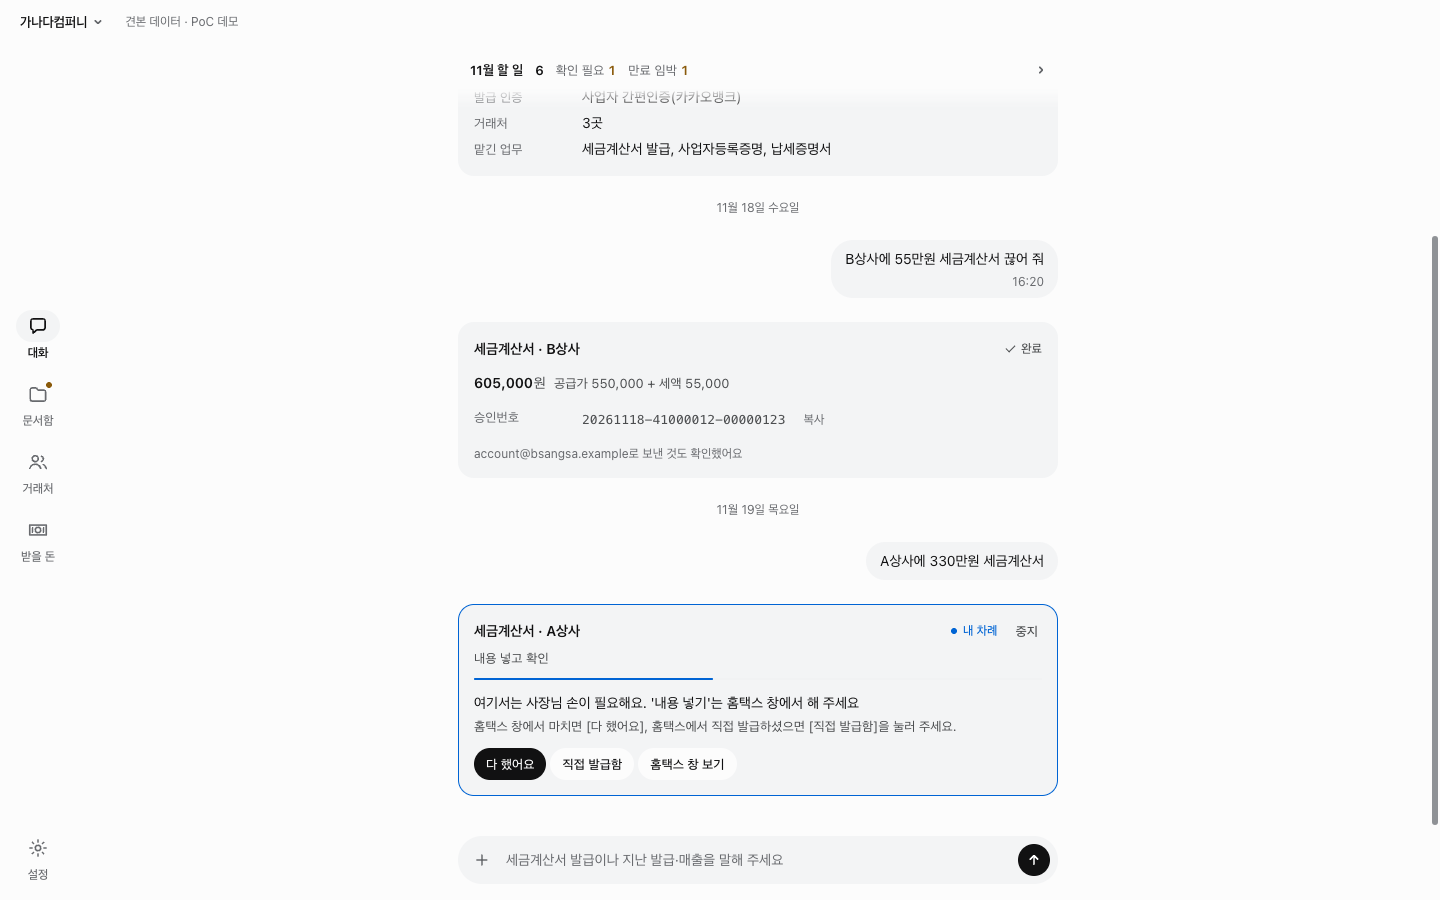
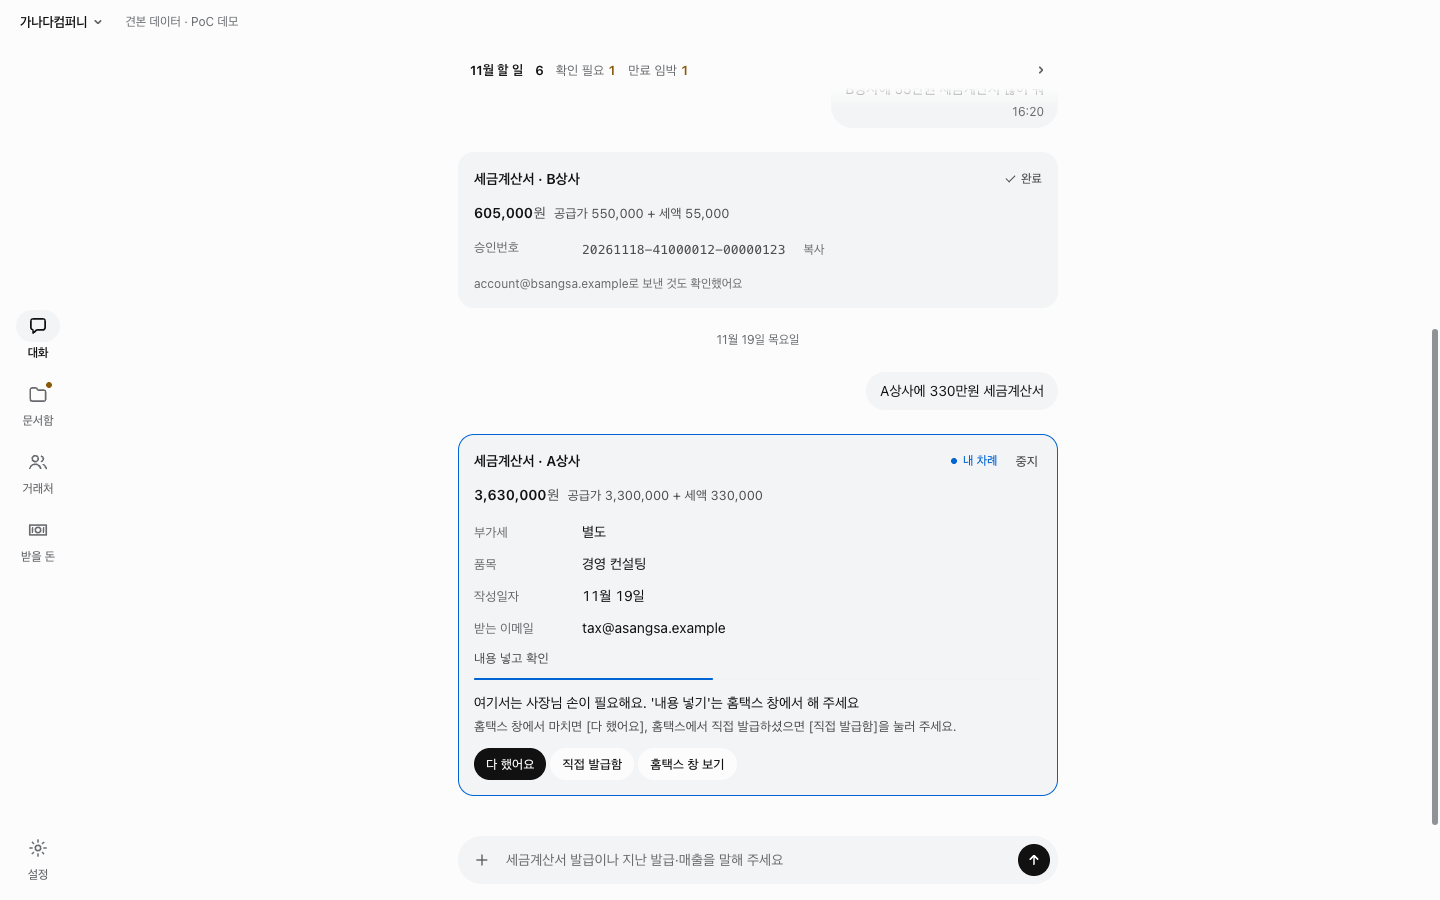
발급 카드는 언제나 같은 틀: 준비 중·사람 차례·확인 필요·멈춤도 금액·값 목록 위에 지금 하는 일과 진행, 바뀐 앞 카드는 접힌 요약 한 줄
- 정정·대기 안내는 안내 면(정보), 미리보기 정정 장면(40~42), 정정·대기 문구는 shell-runs에서 내보냄
- 0클릭 준비와 맞춰 엔진 닫는 문장에서 [홈택스에서 준비]를 누르라는 말을 뺌, '부가세 포함으로' 조사
- chat-eval: autoPrepare 사례(issue-correct-preparing), 조회 요약 문장 검사 정규식

diff --git a/poc/apps/desktop/static/shell/shell-views.js b/poc/apps/desktop/static/shell/shell-views.js
@@ -310,6 +310,7 @@ const certLine = (run) => h('div', { class: 'sx-meta', 'data-cert-inputs': '' },
 /** [홈택스 창 보기]: 사람이 할 일이 홈택스 창에 있을 때(로그인·서명·사람 차례). 실행 Chrome 창을 앞으로 올리기만 한다. 다른 주요 단추가 없으면 이것이 주요 단추다. */
 const showBrowserBtn = (run, act, primary = false) => btn('홈택스 창 보기', () => act.showBrowser(run.id), primary ? 'sx-btn-primary' : '', { 'data-act': 'show-browser' });
 
+const INFO_NOTICE = /바로 준비해요|이어서 준비해요/;
 /** 발급 뒤 확인 중 한 줄(main shell-runs verifyNow와 같은 말). */
 const verifyLine = (n) => (n && n > 1 ? `홈택스 반영이 늦어 발급 목록을 다시 보고 있어요(${n}번째)` : '홈택스 발급 목록에서 방금 건을 찾고 있어요. 1~2분 걸릴 수 있어요');
 /** 지금 단계 한 줄: 지금 하는 일 문장(main이 단계 메모로 준다)이 있으면 그 문장, 없으면 단계 이름. 할 일 줄이 같은 말을 하면 이름만(withNote false). */
@@ -339,10 +340,35 @@ function fold(card, run, step, stop = null) {
   card.classList.toggle('is-attention', run.status === 'attention');
   card.replaceChildren(
     h('div', { class: 'sx-card-hd sx-run-hd' }, h('div', { class: 'sx-card-title' }, `${run.batch ? `${run.batch.index + 1}. ` : ''}${runTitle(run)}`), chip(shownStatus(run)), stop),
-    // 지금 하는 일 한 문장(대표 피드백 4번: 각 스텝이 어떤 상태인지). 금액·값은 패널에 있다.
-    h('p', { class: 'sx-card-now', 'aria-live': 'polite' }, step),
-    run.status === 'attention' ? null : progressBar(run),
+    // 발급 카드는 언제나 같은 틀이다(대표 지적 2026-11-19 "카드가 매번 제각각"): 작성 카드와 같은 금액 줄·값 목록을 위에, 그 아래 지금 하는 일과 진행.
+    ...runFacts(run),
+    // 지금 하는 일 한 문장(대표 피드백 4번: 각 스텝이 어떤 상태인지)
+    step ? h('p', { class: 'sx-card-now', 'aria-live': 'polite' }, step) : null,
+    run.status === 'attention' || run.status === 'stopped' ? null : progressBar(run),
   );
+}
+
+/**
+ * 작성 카드와 같은 틀의 값(읽기 전용): 금액 줄(합계 · 공급가 + 세액) + 부가세 · 품목 · 작성일자 · 받는 이메일. 민원증명은 용도·제출처 줄.
+ * 준비 중·사람 차례·확인 필요·멈춤 카드가 모두 이 틀을 쓴다. 승인 대기 카드만 ADR-021 결정 7로 접힌다(값은 main 승인 카드에만).
+ */
+function runFacts(run) {
+  if (run.cert) return [certLine(run)];
+  return [
+    amount(run.total, run.supply, run.tax, null, true),
+    h(
+      'dl',
+      { class: 'sx-kv sx-draft sx-facts', 'data-run-facts': '' },
+      h('dt', {}, '부가세'),
+      h('dd', {}, run.vat === 'separate' ? '별도' : '포함'),
+      h('dt', {}, '품목'),
+      h('dd', {}, run.item || '—'),
+      h('dt', {}, '작성일자'),
+      h('dd', {}, writeDateText(run.writeDate)),
+      h('dt', {}, '받는 이메일'),
+      h('dd', {}, run.email?.value || '없음 · 메일은 보내지 않아요'),
+    ),
+  ];
 }
 const stopBtn = (run, act) => btn('중지', () => act.stop(run.id), 'sx-btn-quiet', { 'data-act': 'stop' });
 
@@ -544,7 +570,13 @@ export function taskCard(run, act) {
       h('div', { class: 'sx-actions' }, r.noFile ? null : btn('PDF 열기', () => act.openRunDoc(run), 'sx-btn-primary', { 'data-act': 'result-open' }), btn(run.cert ? '한 번 더 떼기' : '지난번과 같게', () => act.again(run), '', { 'data-act': 'again' }), toggle),
       where,
     );
+  } else if (st === 'stopped' && run.replaced) {
+    // 고친 내용으로 새로 준비해서 멈춘 앞 건(정정): 조용히 접힌 요약 한 줄. 새 카드가 바로 아래에 있다.
+    card.replaceChildren(h('div', { class: 'sx-card-hd sx-run-hd', 'data-replaced': '' }, h('div', { class: 'sx-card-title' }, runTitle(run)), h('span', { class: 'sx-meta sx-folded-line' }, `${won(run.total)} · 고친 카드로 바꿨어요`), chip(shownStatus(run))));
+    card.classList.add('is-folded', 'is-replaced');
+    return card;
   } else if (st === 'stopped') {
+    fold(card, run, null);
     card.append(line(run.stoppedNote || '중지했어요.', true));
     // 브라우저가 닫혀 멈춘 제출 전 실행: 같은 값으로 바로 다시 시작
     if (run.browserClosed) card.append(h('div', { class: 'sx-actions' }, btn('다시 시작', () => act.restart(run.id), 'sx-btn-primary', { 'data-act': 'restart' })));
@@ -583,7 +615,8 @@ export function taskCard(run, act) {
     );
   }
   // 포털 안내 문구·금고 알림(텍스트 노드로만).
-  if (run.notices?.length) card.append(noteGroup(run.notices));
+  // 정정·대기 안내(shell-runs REPLACING_NOTE·QUEUED_NOTE)는 할 일이 아니라 알림이라 안내 면(정보)이다. 나머지 포털 문구·금고 알림은 주의 면.
+  if (run.notices?.length) card.append(noteGroup(run.notices, !run.notices.every((t) => INFO_NOTICE.test(t))));
   // 금고가 Chrome 확장을 보고 멈춘 실행이 발급 없이 끝났으면 [다시 시도]: 같은 요청을 입력창에 채우기만 한다(보내기·준비는 사용자가, [지난번과 같게]와 같은 길).
   if (run.retry && !run.result && !run.inDoubt && (st === 'stopped' || st === 'attention')) {
     card.append(h('div', { class: 'sx-actions' }, btn('다시 시도', () => act.again(run), 'sx-btn-primary', { 'data-act': 'retry' })));

diff --git a/poc/packages/engine/src/chat-agent.ts b/poc/packages/engine/src/chat-agent.ts
@@ -61,7 +61,7 @@ export const CHAT_AGENT_ASK_TEXT: Record<AgentAsk, string> = {
 };
 /** 엔진이 도구 결과로 턴을 닫을 때의 고정 문장(마지막 결과 status별). 없으면 CHAT_AGENT_NUMBER_TEXT. */
 export const CHAT_AGENT_DONE_TEXT: Partial<Record<ToolStatus, string>> = {
-  card_shown: '세금계산서 카드를 만들었어요. 맞으면 [홈택스에서 준비]를 눌러 주세요.',
+  card_shown: '세금계산서 카드를 만들었어요. 진행은 카드에서 보여 드려요.',
   card_updated: '카드를 고쳤어요. 바뀐 값을 한 번 봐 주세요.',
   discarded: '카드를 취소했어요. 홈택스에는 아무것도 보내지 않았어요.',
   ok: '찾은 기록을 아래 표로 보여 드렸어요.',
@@ -515,7 +515,7 @@ export class ChatAgent {
         const amt = amtOf(a) ?? line2;
         // 부가세를 말하지 않았으면(null) 앱이 별도로 둔다: 문장 끝에 한 번 알린다(vatNote)
         const vat = vatWord(a.vat);
-        return `${who ? `${who} 앞으로 ` : ''}${when ? `작성일 ${when}, ` : ''}${amt ? `${amt}${vat ? ', ' : ' '}` : ''}${vat ? `${vat}로 ` : ''}세금계산서 카드를 만들었어요.`;
+        return `${who ? `${who} 앞으로 ` : ''}${when ? `작성일 ${when}, ` : ''}${amt ? `${amt}${vat ? ', ' : ' '}` : ''}${vat ? `${vat}${vat.endsWith('포함') ? '으로' : '로'} ` : ''}세금계산서 카드를 만들었어요.`;
       }
       if (r.o.status === 'card_updated') {
         const parts = [amtOf(a) ? `금액 ${amtOf(a)}` : line2 ? `금액 ${line2}` : null, vatWord(a.vat), r.call?.tool === 'draft_edit' && r.call.item ? '품목' : null, when ? `작성일 ${when}` : null].filter((x) => x);
@@ -527,7 +527,7 @@ export class ChatAgent {
     const lines = round.map(line);
     const vatNote = round.some((r) => r.o.status === 'card_shown' && !vatWord(r.args.vat)) ? ' 부가세는 별도로 계산했어요. 포함이면 말씀해 주세요.' : '';
     const cards = round.filter((r) => r.o.status === 'card_shown').length;
-    const tail = round.at(-1)!.o.status === 'card_shown' ? ' 맞으면 [홈택스에서 준비]를 눌러 주세요.' : round.at(-1)!.o.status === 'card_updated' ? ' 바뀐 값을 한 번 봐 주세요.' : '';
+    const tail = round.at(-1)!.o.status === 'card_shown' ? ' 진행은 카드에서 보여 드려요.' : round.at(-1)!.o.status === 'card_updated' ? ' 바뀐 값을 한 번 봐 주세요.' : '';
     const text =
       round.every((r) => r.o.status === 'discarded') ? CHAT_AGENT_DONE_TEXT.discarded!
       : lines.every((l) => l) && lines.length <= 2 ? `${lines.join(' ')}${vatNote || tail}`

diff --git a/poc/tests/chat-eval/cases.ts b/poc/tests/chat-eval/cases.ts
@@ -33,6 +33,7 @@ export const SEED: { cps: SeedCp[]; issued: SeedRow[]; receivables: SeedRow[]; p
     { name: '스마일카페', item: null },
     { name: '대한테크', item: '웹사이트 유지보수' },
     { name: '김앤리컨설팅', item: '컨설팅' },
+    { name: '일호유통', item: '사무용품' },
   ],
   issued: [
     { cp: '한빛상사', date: '2026-11-03', total: 1_100_000, approvalNo: '20261103-41000000-00000001' },
@@ -109,12 +110,21 @@ export interface Case {
   /** 무엇을 보는가(사람이 읽을 설명) */
   why: string;
   turns: Array<{ say: string; expect: TurnExpect }>;
+  /** 앱처럼 품목이 있는 새 카드를 바로 준비 중으로 둔다(열린 카드 목록에서 빠짐, 정정은 invoice_draft 다시). */
+  autoPrepare?: boolean;
 }
 
 const ISSUE_WORDS = ['발급했', '발급 완료했', '발급을 완료', '발급됐', '발급되었', '전송했'];
 
 export const CASES: Case[] = [
   // ── 발급 카드 만들기 ──
+  // 대표 실사용(2026-11-19): 0클릭 준비 중에 금액·부가세를 고친다. 새 카드가 앞 준비를 대신한다([중지]를 시키지 않는다).
+  {
+    id: 'issue-correct-preparing', cat: '여러 턴', why: '준비 중 정정 → 같은 거래처 새 카드(부가세 포함 100원)', autoPrepare: true, turns: [
+      { say: '일호유통 100원 끊어줘', expect: { created: [{ cp: '일호유통', amount: 100 }], notSays: ISSUE_WORDS } },
+      { say: '세금포함 100원이야', expect: { created: [{ cp: '일호유통', amount: 100, vat: 'included' }], notSays: [...ISSUE_WORDS, '중지'] } },
+    ],
+  },
   { id: 'issue-basic', cat: '발급', why: '거래처·금액·품목 저장된 기본 요청', turns: [{ say: '한빛상사 110만원 세금계산서 끊어줘', expect: { created: [{ cp: '한빛상사', amount: 1_100_000 }], tools: ['invoice_draft'], notSays: ISSUE_WORDS } }] },
   { id: 'issue-vat-separate', cat: '발급', why: '부가세 별도 명시 → 공급가', turns: [{ say: '대한테크에 유지보수비 50만원 부가세 별도로 발행해줘', expect: { created: [{ cp: '대한테크', amount: 500_000, vat: 'separate' }] } }] },
   { id: 'issue-vat-included', cat: '발급', why: '부가세 포함 명시 → 합계', turns: [{ say: '스마일카페 커피머신 렌탈 33만원 부가세 포함으로 끊어줘', expect: { created: [{ cp: '스마일카페', amount: 330_000, vat: 'included', item: '렌탈' }] } }] },

diff --git a/poc/apps/desktop/src/shell-app.ts b/poc/apps/desktop/src/shell-app.ts
@@ -47,7 +47,7 @@ import { answersPending, emptyDocStore, SETUP_LABEL, setupMissing, setupText, ty
 import { engineDocsProvider, type DocsProvider } from './shell-docs.ts';
 import { readPastRuns, type PastRun } from './run-history.ts';
 import { pendingWork, RunResumeStore } from './run-resume.ts';
-import { BATCH_AUTO_NOTE, BATCH_CHANGED_NOTE, fatalText, REHEARSAL, ShellRuns, vaultNotice } from './shell-runs.ts';
+import { BATCH_AUTO_NOTE, BATCH_CHANGED_NOTE, fatalText, REHEARSAL, ShellRuns, vaultNotice, QUEUED_NOTE, REPLACED_NOTE, REPLACING_NOTE } from './shell-runs.ts';
 import { AgentChat, type AgentPhase } from './agent-chat.ts';
 import { agentPorts } from './agent-wiring.ts';
 import type { StepParams, StepResult } from '@sax/engine';
@@ -357,9 +357,6 @@ export async function startShell(opts: ShellOptions = {}): Promise<Shell> {
 const LINK_POLL_MS = 4_000;
 const REVERIFY_WAIT_NOTE = '지난 발급을 홈택스 목록에서 확인하고 있어요. 끝나면 바로 시작해요.';
 /** 진행 중인 건이 있을 때 새 초안(queueIfBusy). 정정은 앞 준비를 바꾸고, 다른 건은 앞 건 뒤에 바로 이어 간다. */
-const REPLACING_NOTE = '앞에서 준비하던 건을 멈추고 이 내용으로 바로 준비해요.';
-const REPLACED_NOTE = '고친 내용으로 새로 준비해서 이 건은 멈췄어요. 홈택스에는 아무것도 보내지 않았어요.';
-const QUEUED_NOTE = '지금 하는 건이 끝나면 바로 이어서 준비해요.';
 
 function wireShell(opts: ShellOptions, fixture: FixtureMode | null, key: Uint8Array, store: DocStore, made: { host?: EngineHost }): Shell {
   // 공급사 직결(D04 예외)은 fixture 시연에만. 실제 홈택스 모드에서는 넘겨받아도 쓰지 않는다.
@@ -1315,7 +1312,11 @@ function wireShell(opts: ShellOptions, fixture: FixtureMode | null, key: Uint8Ar
       log.event('main.prepare_replace', {});
       runs.noteOn(id, REPLACING_NOTE);
       runs.stop(active.id).then(
-        () => runs.noteOn(active.id, REPLACED_NOTE),
+        () => {
+          const prev = runs.get(active.id);
+          if (prev) prev.replaced = true;
+          runs.noteOn(active.id, REPLACED_NOTE);
+        },
         (e: Error) => log.event('main.prepare_replace_failed', { code: e.message.slice(0, 60) }),
       );
     } else {

diff --git a/poc/tests/chat-eval/run.ts b/poc/tests/chat-eval/run.ts
@@ -250,6 +250,8 @@ async function runTurns(c: Case, env: ReturnType<typeof seedDb>, origin: string,
     const log: TurnLog = { say: t.say, calls: cur.calls, model: cur.model, trace: sink.trace, ms, result, created, open, checks: [] };
     log.checks = score(t.expect, log, sink.err);
     logs.push(log);
+    // 앱의 0클릭 준비(shell-app autoPrepare): 품목이 있는 새 카드는 바로 준비 중이 되어 열린 카드 목록에서 빠진다.
+    if (c.autoPrepare) for (const d of drafts) if (!before.has(d.runId) && d.status === 'draft' && view(d).itemShown) d.status = 'preparing';
   }
   return logs;
 }
@@ -284,7 +286,7 @@ function score(e: TurnExpect, l: TurnLog, upstreamError = ''): TurnLog['checks']
   }
   const tools = l.calls.map((x) => x.tool);
   // 카드를 만들라는 차례에 조회 요약 문장으로 답하면 틀린 답이다(카드가 생겨도)
-  if (e.created && /건이고 합계는/.test(text)) add('카드 차례에 조회 요약 없음', false, text);
+  if (e.created && /건(?:이고|,) 합계/.test(text)) add('카드 차례에 조회 요약 없음', false, text);
   for (const t of e.tools ?? []) add(`도구 ${t}`, tools.includes(t), tools.join(',') || '없음');
   for (const t of e.noTools ?? []) add(`도구 ${t} 안 부름`, !tools.includes(t));
   if (e.noCreate) add('카드 안 만듦', l.created.length === 0, l.created.map((d) => `${d.name} ${d.amount}`).join(', '));

diff --git a/poc/apps/desktop/src/shell-runs.ts b/poc/apps/desktop/src/shell-runs.ts
@@ -13,6 +13,11 @@ import { issueDateRule } from '@sax/engine';
 // 셸의 발급 실행(PoC-6). 초안은 main이 만들고(요청 해석은 아직 정규식 목업), [홈택스에서 준비]부터는 엔진이 H-01 플레이북을 돈다.
 // 실행 단계·승인 대기·발급 확정·승인번호는 엔진 이벤트에서 온다. 게이트 요청은 게이트 포트로 와서 승인 바가 받는다(shell-app).
 
+/** 정정·대기(shell-app queueIfBusy): 같은 거래처의 승인 전 준비를 새 카드가 대신하거나, 다른 건이 앞 건 뒤에 기다린다. 미리보기도 같은 글을 쓴다. */
+export const REPLACING_NOTE = '앞에서 준비하던 건을 멈추고 이 내용으로 바로 준비해요.';
+export const REPLACED_NOTE = '고친 내용으로 새로 준비해서 이 건은 멈췄어요. 홈택스에는 아무것도 보내지 않았어요.';
+export const QUEUED_NOTE = '지금 하는 건이 끝나면 바로 이어서 준비해요.';
+
 /** 발급 뒤 확인(발급목록 조회)은 몇 분 걸린다. 카드가 멈춘 것처럼 보이지 않게 지금 하는 일과 걸리는 시간을 같이 말한다. */
 export const VERIFY_NOW = '홈택스 발급 목록에서 방금 건을 찾고 있어요. 1~2분 걸릴 수 있어요';
 /** 조회를 되풀이할 때(엔진 attempt). 횟수 대신 "다시 보고 있어요"로 말한다. */

diff --git a/poc/apps/desktop/src/shell-model.ts b/poc/apps/desktop/src/shell-model.ts
@@ -460,6 +460,8 @@ export interface RunViewBase {
   action?: string;
   /** 카드 꼬리 문장(포털 안내 문구·금고 알림). 텍스트로만 그린다. */
   notices?: string[];
+  /** 같은 거래처의 정정으로 새 카드가 이 준비를 대신했다(대화 카드는 조용히 접힌 요약 한 줄). */
+  replaced?: boolean;
   /** 실행 중 포털 대화상자 확인 결과(예: "사업자번호 확인: 정상적인 사업자번호입니다."). step은 엔진 단계 번호, ok가 아니면 빨간 글. 실행 단계 목록 안에 글로만 그린다(대표 2026-11-13, 팝업 없음). */
   portalChecks?: Array<{ step: number; text: string; ok: boolean }>;
   /** 다시 해도 되는 멈춤이었다(금고가 Chrome 확장을 보고 비밀 창을 거절). 발급 없이 끝난 카드에 [다시 시도]를 둔다. */
